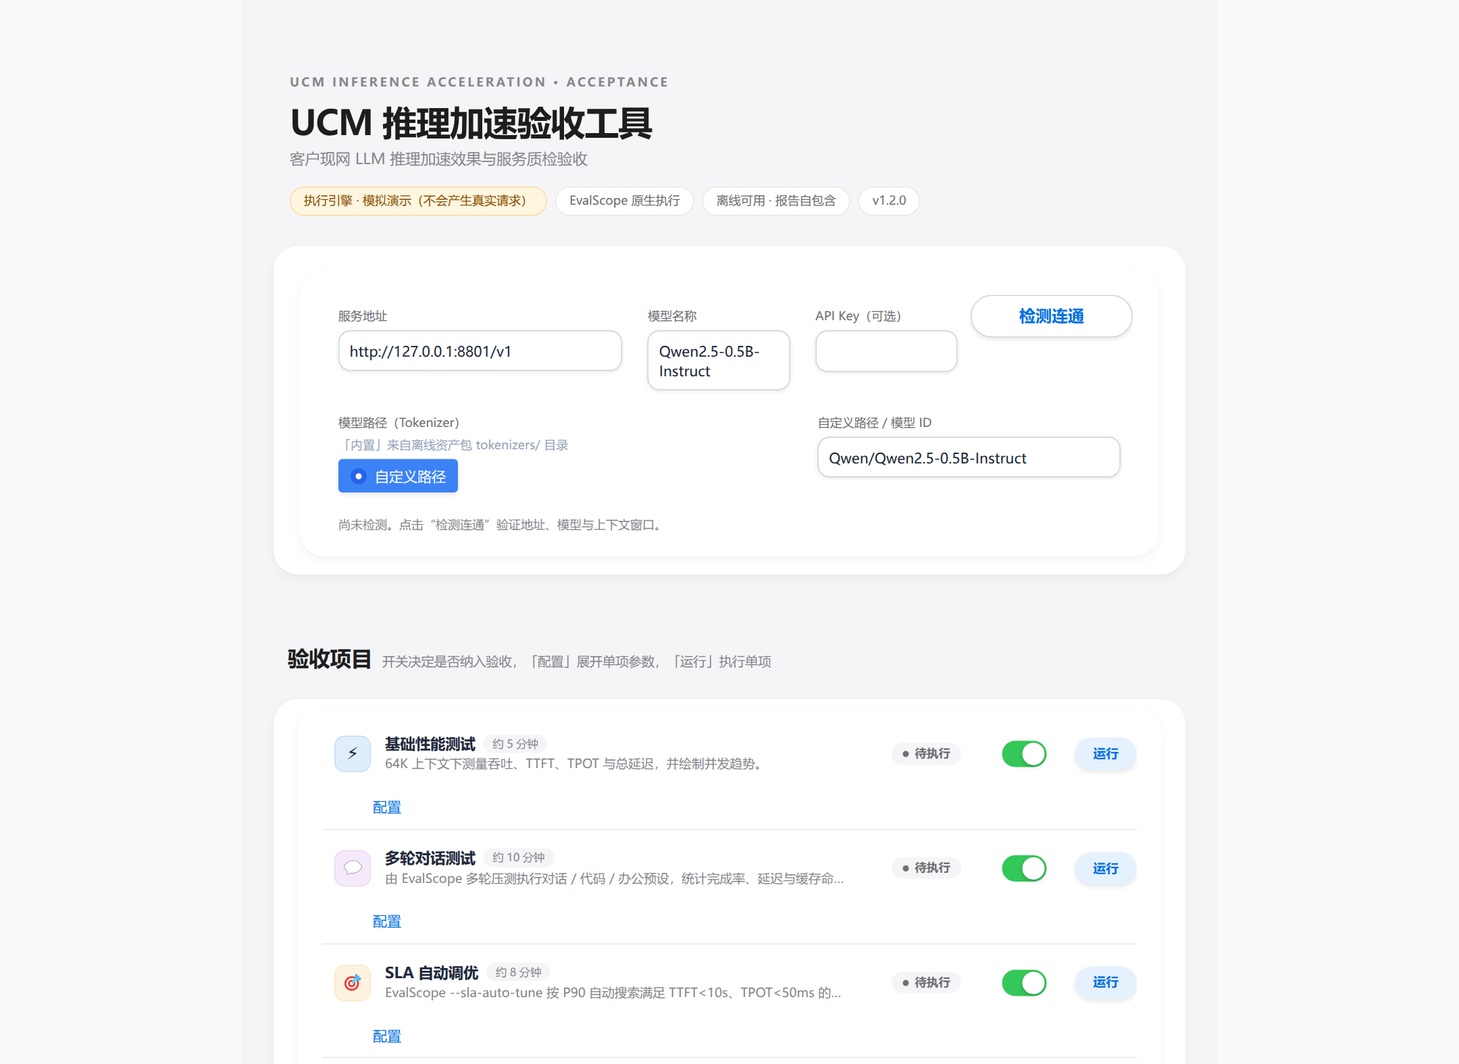
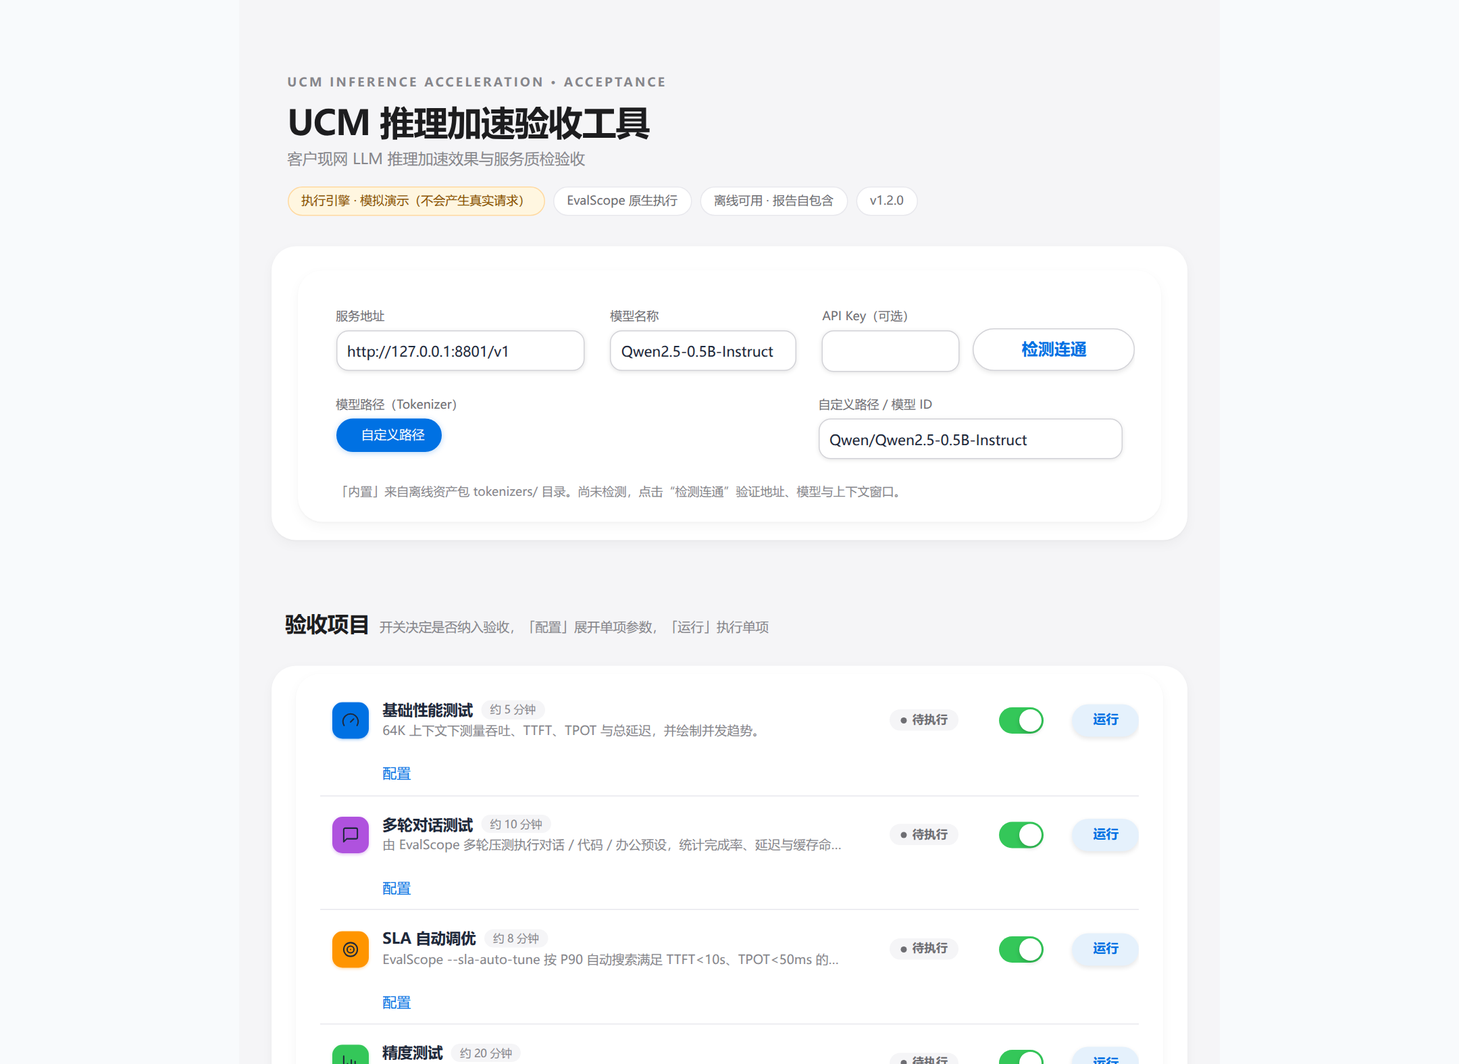
style(gui/report): 对齐修正 + SVG 图标替换 emoji + 组件风格统一
- 测试项图标与高级配置标题的 emoji 全部替换为 SF Symbols 风格内联 SVG
- 对齐修正（JS 量化）：项内「配置」与标题文字精确对齐（62/62/62），
  检测连通按钮与输入框底边对齐，模型名称列加宽避免 textarea 换行撑高
- 选项组件统一芯片化：radio / checkbox-group 统一胶囊（选中=蓝底白字），
  导入配置上传框压缩为 44px 单行，tabs 改为分段控件（Gradio 6 .tab-container）
- 隐藏 Gradio 页脚；文件框改白底细边
- report.py 调色板统一到 Apple 令牌：白 hero、蓝强调、24px 圆角白卡，
  图表色替换为系统蓝/橙

diff --git a/ucm_accept/gui.py b/ucm_accept/gui.py
@@ -53,9 +53,16 @@ body,.gradio-container{background:var(--bg)!important}
 .ucm-import > div,.ucm-import button,.ucm-import .empty,.ucm-import .wrap,.ucm-import .upload-container,
 .ucm-import .file-preview,.ucm-import [data-testid="file"],.ucm-import .prose{
   min-height:0!important;height:auto!important;color:var(--muted)!important;font-size:12px!important}
-.ucm-import button,.ucm-import .upload-container{background:var(--bg)!important;
-  border:1.5px dashed var(--line-2)!important;border-radius:12px!important;padding:10px 14px!important;
-  box-shadow:none!important;color:var(--muted-2)!important}
+.ucm-import button,.ucm-import .upload-container{background:var(--card)!important;
+  border:1.5px dashed var(--line-2)!important;border-radius:12px!important;padding:0 16px!important;
+  box-shadow:none!important;color:var(--muted-2)!important;min-height:0!important;height:44px!important}
+.ucm-import .upload-container .wrap{flex-direction:row!important;gap:8px!important;align-items:center!important;
+  min-height:0!important;height:42px!important}
+.ucm-import .upload-container .icon-wrap svg{width:16px;height:16px}
+.ucm-import .upload-container .or{display:none!important}
+.ucm-import .upload-container .wrap{font-size:0!important}
+.ucm-import .upload-container .wrap::after{content:"选择 YAML 文件";font-size:12.5px!important;
+  color:var(--muted-2)!important;white-space:nowrap}
 .gradio-container .container.show_textbox_border,.gradio-container .input-container{background:transparent!important}
 
 /* ===================== 输入框 ===================== */
@@ -105,13 +112,13 @@ body,.gradio-container{background:var(--bg)!important}
 .ucm-item-row > .ucm-item-head-wrap{flex:1 1 auto!important;width:auto!important}
 .ucm-item-row > .ucm-item-status{flex:0 0 auto!important;width:auto!important}
 .ucm-item-row > .card-enable{flex:0 0 auto!important;width:auto!important}
-.ucm-item-row > button.ucm-run-one{flex:0 0 auto!important;width:auto!important}
+.ucm-item-row > button.ucm-run-one{flex:0 0 auto!important;width:auto!important;min-width:66px!important}
 .ucm-item-head-wrap{flex:1 1 auto!important;min-width:0;display:flex!important;align-items:center!important}
 .ucm-item-head{display:flex;align-items:center;gap:14px;min-width:0}
 .ucm-item-icon{width:36px;height:36px;flex:none;border-radius:10px;display:flex;align-items:center;
-  justify-content:center;font-size:17px;
-  background:color-mix(in srgb,var(--accent,#0071e3) 12%,#fff);
-  border:1px solid color-mix(in srgb,var(--accent,#0071e3) 24%,#fff)}
+  justify-content:center;background:var(--accent,#0071e3);color:#fff;
+  box-shadow:0 1px 3px color-mix(in srgb,var(--accent,#0071e3) 35%,transparent)}
+.ucm-item-icon svg{display:block}
 .ucm-item-name{min-width:0}
 .ucm-item-title{font-size:15px;font-weight:600;letter-spacing:-.01em;line-height:1.3;
   display:flex;align-items:center;gap:8px;white-space:nowrap}
@@ -167,26 +174,51 @@ body,.gradio-container{background:var(--bg)!important}
 .ucm-run-one{min-height:32px!important;font-size:12.5px!important;padding:0 18px!important;
   background:var(--blue-soft)!important;border:none!important;color:var(--blue)!important}
 .ucm-run-one:hover{background:rgba(0,113,227,.16)!important;transform:none}
-.probe-btn{min-height:40px!important}
+.probe-btn{min-height:40px!important;align-self:flex-end!important;margin-bottom:11px!important}
 
-/* ===================== 选项卡（分段控件） ===================== */
-.ucm-config .tab-nav,.gradio-container .tab-nav{background:#ececee!important;border-bottom:none!important;
+/* ===================== 选项芯片（radio / checkbox-group 统一胶囊） ===================== */
+.ucm-choice .wrap{gap:8px!important}
+.ucm-choice label{position:relative;border:1px solid var(--line-2)!important;border-radius:999px!important;
+  background:var(--card)!important;padding:6px 16px!important;margin:0!important;
+  font-size:12.5px!important;font-weight:500!important;color:var(--ink)!important;
+  box-shadow:none!important;cursor:pointer;transition:all .5s var(--ease)}
+.ucm-choice label:hover{border-color:var(--blue)!important}
+.ucm-choice label input{position:absolute;opacity:0;pointer-events:none;width:0;height:0;margin:0}
+.ucm-choice label.selected,.ucm-choice label:has(input:checked){
+  background:var(--blue)!important;border-color:var(--blue)!important;color:#fff!important;
+  box-shadow:0 1px 6px rgba(0,113,227,.28)!important}
+.ucm-choice label:focus-within{box-shadow:0 0 0 3px rgba(0,113,227,.22)!important}
+
+/* ===================== 文件框 / 页脚 / 日志容器 ===================== */
+.ucm-filebox{border:1px solid var(--line)!important;border-style:solid!important;border-radius:12px!important;
+  background:var(--card)!important;box-shadow:none!important}
+.ucm-filebox button{border-style:solid!important;background:var(--card)!important;color:var(--blue)!important;
+  font-size:12.5px!important}
+.gradio-container footer{display:none!important}
+.ucm-log > div,.ucm-log .wrap{background:transparent!important;border:none!important;box-shadow:none!important}
+
+/* ===================== 选项卡（分段控件，Gradio 6：.tab-container） ===================== */
+.ucm-config .tab-container:not(.visually-hidden),.gradio-container .tab-container:not(.visually-hidden){
+  background:#ececee!important;border-bottom:none!important;
   border-radius:12px!important;padding:3px!important;gap:2px;width:fit-content}
-.ucm-config .tab-nav button,.gradio-container .tab-nav button{border-radius:9px!important;background:transparent!important;
-  font-weight:500!important;font-size:13px!important;color:var(--muted-2)!important;
-  transition:all .5s var(--ease)}
-.ucm-config .tab-nav button.selected,.gradio-container .tab-nav button.selected,
-.ucm-config .tab-nav button[aria-selected="true"]{background:#fff!important;color:var(--ink)!important;
-  box-shadow:0 1px 4px rgba(0,0,0,.10)!important}
+.ucm-config .tab-container:not(.visually-hidden) button,.gradio-container .tab-container:not(.visually-hidden) button{
+  border-radius:9px!important;background:transparent!important;font-weight:500!important;
+  font-size:13px!important;color:var(--muted-2)!important;transition:all .5s var(--ease)}
+.ucm-config .tab-container:not(.visually-hidden) button.selected,
+.gradio-container .tab-container:not(.visually-hidden) button.selected,
+.ucm-config .tab-container:not(.visually-hidden) button[aria-selected="true"]{
+  background:#fff!important;color:var(--ink)!important;box-shadow:0 1px 4px rgba(0,0,0,.10)!important}
 
 /* ===================== 项内配置折叠区 ===================== */
 .ucm-item-config{border:none!important;background:transparent!important;box-shadow:none!important;
-  padding:0!important;margin:0 0 8px 50px!important}
+  padding:0!important;margin:0 0 8px 62px!important}
 .ucm-item-config .label-wrap,.ucm-item-config button,.ucm-item-config [role="button"]{
   width:100%;justify-content:flex-start!important;text-align:left;padding:3px 0!important;
   font-weight:500!important;font-size:12.5px!important;color:var(--blue)!important}
 .ucm-item-config .label-wrap .icon,.ucm-item-config button .icon{display:none!important}
 .ucm-item-config .wrap{background:transparent!important;border:none!important}
+.ucm-item-config .form{max-width:560px}
+.ucm-endpoint textarea{white-space:pre;overflow-x:auto}
 .ucm-config label span{font-weight:500!important;font-size:12px!important;color:var(--muted-2)!important}
 .ucm-config input,.ucm-config input[type="number"],.ucm-config textarea{border-radius:var(--radius-input)!important}
 
@@ -427,7 +459,22 @@ def _parse_scenario(value: str) -> str:
     return {"对话": "dialogue", "代码": "code", "办公": "office"}.get(value, value or "dialogue")
 
 
-# 每个测试项的图标色（iOS 设置风格：彩色小方块图标，页面其余部分保持单色系）
+# 每个测试项的图标（SF Symbols 风格线性 SVG）与 iOS 设置风格彩色小方块
+_SVG_WRAP = ('<svg viewBox="0 0 24 24" width="18" height="18" fill="none" stroke="currentColor" '
+             'stroke-width="1.8" stroke-linecap="round" stroke-linejoin="round" aria-hidden="true">{}</svg>')
+ITEM_ICONS: dict[str, str] = {
+    "perf": _SVG_WRAP.format('<path d="M12 14l4-4"/><path d="M3.4 18.5a10 10 0 1 1 17.2 0"/>'),
+    "multiturn": _SVG_WRAP.format('<path d="M21 15a2 2 0 0 1-2 2H7l-4 4V5a2 2 0 0 1 2-2h14a2 2 0 0 1 2 2z"/>'),
+    "sla": _SVG_WRAP.format('<circle cx="12" cy="12" r="9"/><circle cx="12" cy="12" r="4.5"/>'
+                            '<circle cx="12" cy="12" r="0.8" fill="currentColor" stroke="none"/>'),
+    "accuracy": _SVG_WRAP.format('<path d="M3 3v18h18"/><path d="M8 17v-4"/><path d="M13 17V8"/>'
+                                 '<path d="M18 17v-7"/>'),
+    "agent": _SVG_WRAP.format('<rect x="5" y="5" width="14" height="14" rx="2.5"/>'
+                              '<rect x="10" y="10" width="4" height="4" rx="0.8"/>'
+                              '<path d="M9 2.5V5M15 2.5V5M9 19v2.5M15 19v2.5M2.5 9H5M2.5 15H5'
+                              'M19 9h2.5M19 15h2.5"/>'),
+}
+# 图标底色（iOS 设置风格：彩色小方块图标，页面其余部分保持单色系）
 ITEM_ACCENTS: dict[str, str] = {
     "perf": "#0071e3",
     "multiturn": "#af52de",
@@ -610,7 +657,7 @@ def build_demo(service: AcceptanceService):
                     label="模型名称",
                     value=str(config.get("endpoint.model")),
                     placeholder="Qwen2.5-0.5B-Instruct",
-                    scale=2,
+                    scale=3,
                 )
                 api_key = gr.Textbox(
                     label="API Key（可选）",
@@ -624,7 +671,7 @@ def build_demo(service: AcceptanceService):
                     choices=tok_builtin_choices,
                     value=tok_builtin_choices[tok_default_index],
                     label="模型路径（Tokenizer）",
-                    info="「内置」来自离线资产包 tokenizers/ 目录",
+                    elem_classes="ucm-choice",
                     scale=3,
                 )
                 tokenizer_custom = gr.Textbox(
@@ -635,7 +682,8 @@ def build_demo(service: AcceptanceService):
                     scale=2,
                 )
             probe_status = gr.HTML(
-                '<div class="ucm-hint">尚未检测。点击“检测连通”验证地址、模型与上下文窗口。</div>',
+                '<div class="ucm-hint">「内置」来自离线资产包 tokenizers/ 目录。尚未检测，'
+                '点击“检测连通”验证地址、模型与上下文窗口。</div>',
                 elem_classes="ucm-probe-status",
             )
 
@@ -661,7 +709,7 @@ def build_demo(service: AcceptanceService):
             accent = ITEM_ACCENTS[key]
             return (
                 f'<div class="ucm-item-head">'
-                f'<div class="ucm-item-icon" style="--accent:{accent}">{meta.icon}</div>'
+                f'<div class="ucm-item-icon" style="--accent:{accent}">{ITEM_ICONS[key]}</div>'
                 f'<div class="ucm-item-name">'
                 f'<div class="ucm-item-title">{_esc(meta.name)}<span class="ucm-item-eta">{_esc(meta.eta)}</span></div>'
                 f'<div class="ucm-item-desc">{_esc(meta.description)}</div>'
@@ -712,6 +760,7 @@ def build_demo(service: AcceptanceService):
                         choices=mt_labels,
                         value=[str(presets[k].get("label", k)) for k in presets if k in mt_selected],
                         label="数据集（多选，按顺序执行）",
+                        elem_classes="ucm-choice",
                     )
                     mt_parallel_card = gr.Number(
                         label="并发", value=int(config.get("multiturn.parallel", 4)), precision=0
@@ -735,6 +784,7 @@ def build_demo(service: AcceptanceService):
                         ],
                         value=str(config.get("sla.mode", "auto_tune")),
                         label="模式",
+                        elem_classes="ucm-choice",
                     )
                     sla_ttft_card = gr.Number(
                         label="TTFT.P90 阈值（秒）",
@@ -760,6 +810,7 @@ def build_demo(service: AcceptanceService):
                         choices=acc_labels_all,
                         value=acc_labels_enabled,
                         label="数据集（多选）",
+                        elem_classes="ucm-choice",
                     )
                     acc_runs_card = gr.Number(
                         label="每项遍数", value=int(config.get("accuracy.runs", 2)), precision=0,
@@ -817,7 +868,7 @@ def build_demo(service: AcceptanceService):
         report_html = gr.HTML(_report_frame(service))
 
         # ============== 高级配置（低频项） ==============
-        with gr.Accordion("⚙ 高级配置（低频项）", open=False, elem_classes="ucm-config"):
+        with gr.Accordion("高级配置（低频项）", open=False, elem_classes="ucm-config"):
             gr.HTML(
                 '<div class="ucm-hint">各测试项的主要参数已在上方对应测试项的「配置」内。此处为低频高级参数，'
                 "修改仅对本次会话生效，点击「保存到配置文件」后持久化。API Key 不落盘。</div>"

diff --git a/ucm_accept/report.py b/ucm_accept/report.py
@@ -23,65 +23,64 @@ from .models import (
 
 CSS = r"""
 :root{
-  --ink:#0f172a; --muted:#5b6779; --line:#dde3ec; --bg:#eef2f7; --card:#ffffff;
-  --brand:#0b2a4a; --brand2:#124f7a; --accent:#0f9d8a; --accent-soft:#e6f7f4;
-  --amber:#b45309; --amber-soft:#fff7e6; --red:#b91c1c; --red-soft:#fef2f2;
-  --green:#15803d; --green-soft:#eaf7ee;
+  --ink:#1d1d1f; --muted:#86868b; --line:#e8e8ed; --bg:#f5f5f7; --card:#ffffff;
+  --brand:#1d1d1f; --brand2:#0071e3; --accent:#0071e3; --accent-soft:#e5f0ff;
+  --amber:#9a6a00; --amber-soft:#fff6e0; --red:#c21b17; --red-soft:#ffecec;
+  --green:#1d7a3d; --green-soft:#e8f9ee;
 }
 *{box-sizing:border-box}
 html{scroll-behavior:smooth}
 body{margin:0;background:var(--bg);color:var(--ink);
-  font-family:-apple-system,BlinkMacSystemFont,"Segoe UI","Microsoft YaHei","Noto Sans CJK SC",
-  "PingFang SC","Hiragino Sans GB",sans-serif;font-size:14px;line-height:1.65}
+  font-family:-apple-system,BlinkMacSystemFont,"SF Pro Display","SF Pro Text","Segoe UI","Microsoft YaHei",
+  "Noto Sans CJK SC","PingFang SC","Hiragino Sans GB",sans-serif;font-size:14px;line-height:1.65;
+  -webkit-font-smoothing:antialiased}
 a{color:var(--brand2)}
 code,pre{font-family:"SFMono-Regular",Consolas,"Liberation Mono",Menlo,monospace}
-.hero{background:linear-gradient(125deg,#081a30 0%,#0d3255 55%,#0f5a68 100%);color:#fff;
-  padding:34px 40px 30px;position:relative;overflow:hidden}
-.hero:after{content:"";position:absolute;right:-120px;top:-120px;width:380px;height:380px;
-  border-radius:50%;background:radial-gradient(circle,rgba(45,212,191,.28),transparent 68%)}
+.hero{background:var(--card);color:var(--ink);
+  padding:36px 40px 32px;position:relative;overflow:hidden;border-bottom:1px solid var(--line)}
 .hero .wrap{max-width:1180px;margin:0 auto;position:relative;z-index:1}
-.eyebrow{font-size:12px;letter-spacing:.18em;text-transform:uppercase;color:#8fd8cf;font-weight:700}
-.hero h1{margin:8px 0 10px;font-size:30px;line-height:1.25;font-weight:750;letter-spacing:.01em}
-.hero .sub{color:#cfe1f2;max-width:820px;margin:0;font-size:14px}
-.hero-meta{display:flex;flex-wrap:wrap;gap:8px 22px;margin-top:18px;color:#b9cee2;font-size:12.5px}
-.hero-meta b{color:#fff;font-weight:600}
-.mode-pill{display:inline-flex;align-items:center;gap:6px;border:1px solid rgba(255,255,255,.25);
-  background:rgba(255,255,255,.1);border-radius:999px;padding:3px 11px;font-size:12px;color:#e6f6f3}
+.eyebrow{font-size:12px;letter-spacing:.18em;text-transform:uppercase;color:var(--muted);font-weight:600}
+.hero h1{margin:10px 0 10px;font-size:32px;line-height:1.15;font-weight:700;letter-spacing:-.02em}
+.hero .sub{color:var(--muted);max-width:820px;margin:0;font-size:14px}
+.hero-meta{display:flex;flex-wrap:wrap;gap:8px 22px;margin-top:18px;color:var(--muted);font-size:12.5px}
+.hero-meta b{color:var(--ink);font-weight:600}
+.mode-pill{display:inline-flex;align-items:center;gap:6px;border:1px solid var(--line);
+  background:var(--accent-soft);border-radius:999px;padding:3px 11px;font-size:12px;color:#0062c4}
 main{max-width:1180px;margin:0 auto;padding:24px 28px 56px}
 .banner{border-radius:12px;padding:14px 18px;margin:18px 0;border:1px solid;font-size:13.5px}
 .banner.warn{background:var(--amber-soft);border-color:#f3d19b;color:#7c4a03}
 .banner.info{background:#eff6ff;border-color:#bfdbfe;color:#1e3a8a}
 .banner strong{font-weight:700}
 .verdict{display:grid;grid-template-columns:176px 1fr;gap:24px;align-items:center;
-  background:var(--card);border:1px solid var(--line);border-radius:16px;padding:24px 28px;
-  margin-top:0;position:relative;box-shadow:0 12px 32px rgba(15,23,42,.08)}
-.verdict-badge{border-radius:12px;padding:18px 12px;text-align:center;color:#fff;
-  background:var(--accent);box-shadow:inset 0 0 0 1px rgba(255,255,255,.18)}
+  background:var(--card);border:none;border-radius:24px;padding:24px 28px;
+  margin-top:0;position:relative;box-shadow:0 4px 12px rgba(0,0,0,.04)}
+.verdict-badge{border-radius:16px;padding:18px 12px;text-align:center;color:#fff;
+  background:var(--accent);box-shadow:0 4px 14px rgba(0,113,227,.30)}
 .verdict-badge .label{font-size:11px;letter-spacing:.16em;opacity:.85}
 .verdict-badge .value{font-size:27px;font-weight:800;line-height:1.25;margin-top:3px}
 .verdict h2{font-size:17px;margin:0 0 6px}
 .verdict ul{margin:4px 0 0;padding-left:20px;color:var(--muted)}
 .verdict li{margin:2px 0}
-.section{background:var(--card);border:1px solid var(--line);border-radius:16px;padding:22px 24px;
-  margin-top:20px;box-shadow:0 2px 8px rgba(15,23,42,.03);page-break-inside:avoid}
+.section{background:var(--card);border:none;border-radius:24px;padding:24px 28px;
+  margin-top:20px;box-shadow:0 4px 12px rgba(0,0,0,.04);page-break-inside:avoid}
 .section>h2{font-size:19px;margin:0 0 4px;display:flex;align-items:center;gap:9px}
-.section>h2 .num{font-size:12px;color:#fff;background:var(--brand2);border-radius:6px;
+.section>h2 .num{font-size:12px;color:#fff;background:var(--blue,#0071e3);border-radius:999px;
   min-width:24px;height:24px;display:inline-flex;align-items:center;justify-content:center;font-weight:700}
 .section .lead{color:var(--muted);margin:0 0 16px;font-size:13px}
 .grid{display:grid;grid-template-columns:repeat(auto-fit,minmax(190px,1fr));gap:12px}
-.kv{border:1px solid var(--line);border-radius:11px;padding:12px 14px;background:#fbfcfe}
+.kv{border:1px solid var(--line);border-radius:12px;padding:12px 14px;background:var(--bg)}
 .kv .k{color:var(--muted);font-size:11.5px;letter-spacing:.03em}
 .kv .v{font-weight:650;font-size:15px;margin-top:2px;overflow-wrap:anywhere}
 .kv.endpoint{grid-column:span 2}
 .kv.endpoint .v{font-size:13px}
-.metric{background:linear-gradient(180deg,#fbfdff,#f5f9ff);border:1px solid #dbe7f7;
+.metric{background:var(--bg);border:1px solid var(--line);
   border-radius:12px;padding:14px 16px}
 .metric .k{font-size:12px;color:var(--muted)}
 .metric .v{font-size:24px;font-weight:750;color:var(--brand2);margin-top:2px;line-height:1.2}
 .metric .s{font-size:11.5px;color:var(--muted);margin-top:3px}
 table{width:100%;border-collapse:collapse;margin:10px 0 2px;font-size:12.8px}
 th,td{border-bottom:1px solid var(--line);padding:8px 9px;text-align:left;vertical-align:top}
-th{background:#f6f8fc;color:#3b4b61;font-weight:650;white-space:nowrap}
+th{background:var(--bg);color:#6e6e73;font-weight:600;white-space:nowrap}
 tbody tr:last-child td{border-bottom:none}
 td.num,th.num{text-align:right;font-variant-numeric:tabular-nums;white-space:nowrap}
 .table-wrap{overflow-x:auto}
@@ -101,7 +100,7 @@ td.num,th.num{text-align:right;font-variant-numeric:tabular-nums;white-space:now
   border-radius:0 9px 9px 0;margin:12px 0;color:#6b4103;font-size:13px}
 .callout.bad{border-color:var(--red);background:var(--red-soft);color:#7f1d1d}
 .callout.good{border-color:var(--green);background:var(--green-soft);color:#14532d}
-.callout.info{border-color:#2563eb;background:#eff6ff;color:#1e3a8a}
+.callout.info{border-color:#0071e3;background:#e5f0ff;color:#0062c4}
 .details{border:1px solid var(--line);border-radius:10px;margin:10px 0;background:#fcfdff}
 .details summary{cursor:pointer;padding:10px 14px;font-weight:600;color:#334155}
 .details .body{padding:2px 14px 14px;border-top:1px solid var(--line)}
@@ -298,7 +297,7 @@ def svg_accuracy_bars(
         return '<div class="empty">暂无精度数据</div>'
     left, right, top, bottom = 58, 22, 18, 46
     plot_w, plot_h = width - left - right, height - top - bottom
-    colors = ["#2563eb", "#0f9d8a"]
+    colors = ["#0071e3", "#ff9500"]
     groups = len(labels)
     group_w = plot_w / max(1, groups)
     bar_w = min(30, group_w * 0.26)
@@ -472,9 +471,9 @@ def _perf_section(report: AcceptanceReport, item: ItemResult | None) -> str:
         charts = (
             '<div class="charts-2">'
             f'<div class="chart"><h3>TTFT.P90（秒）</h3><p>首字延迟随并发变化，虚线为 SLA 目标</p>'
-            f'{svg_line_chart(points, lambda p: (p.get("ttft_p90_ms") or 0) / 1000, title="TTFT.P90", unit="秒", threshold=(ttft_target / 1000 if ttft_target else None), threshold_label=f"目标 {ttft_target/1000:.1f}s" if ttft_target else "", color="#2563eb")}</div>'
+            f'{svg_line_chart(points, lambda p: (p.get("ttft_p90_ms") or 0) / 1000, title="TTFT.P90", unit="秒", threshold=(ttft_target / 1000 if ttft_target else None), threshold_label=f"目标 {ttft_target/1000:.1f}s" if ttft_target else "", color="#0071e3")}</div>'
             f'<div class="chart"><h3>TPOT.P90（毫秒）</h3><p>逐字延迟随并发变化，虚线为 SLA 目标</p>'
-            f'{svg_line_chart(points, lambda p: p.get("tpot_p90_ms"), title="TPOT.P90", unit="毫秒", threshold=tpot_target, threshold_label=f"目标 {tpot_target:.0f}ms" if tpot_target else "", color="#0f9d8a")}</div>'
+            f'{svg_line_chart(points, lambda p: p.get("tpot_p90_ms"), title="TPOT.P90", unit="毫秒", threshold=tpot_target, threshold_label=f"目标 {tpot_target:.0f}ms" if tpot_target else "", color="#ff9500")}</div>'
             "</div>"
             f'<div class="chart"><h3>输出吞吐（tok/s）</h3><p>不同并发下的稳态输出吞吐</p>'
             f'{svg_line_chart(points, lambda p: p.get("throughput_tok_s"), title="输出吞吐", unit="tok/s", color="#7c3aed")}</div>'
@@ -602,9 +601,9 @@ def _sla_section(report: AcceptanceReport, item: ItemResult | None) -> str:
             charts = (
                 '<div class="charts-2">'
                 f'<div class="chart"><h3>TTFT.P90（秒）</h3>'
-                f'{svg_line_chart(probes, lambda p: (p.get("ttft_p90_ms") or 0)/1000, title="SLA TTFT.P90", unit="秒", threshold=(target.get("ttft_p90_ms") or 0)/1000, threshold_label="目标", color="#2563eb")}</div>'
+                f'{svg_line_chart(probes, lambda p: (p.get("ttft_p90_ms") or 0)/1000, title="SLA TTFT.P90", unit="秒", threshold=(target.get("ttft_p90_ms") or 0)/1000, threshold_label="目标", color="#0071e3")}</div>'
                 f'<div class="chart"><h3>TPOT.P90（毫秒）</h3>'
-                f'{svg_line_chart(probes, lambda p: p.get("tpot_p90_ms"), title="SLA TPOT.P90", unit="毫秒", threshold=target.get("tpot_p90_ms"), threshold_label="目标", color="#0f9d8a")}</div>'
+                f'{svg_line_chart(probes, lambda p: p.get("tpot_p90_ms"), title="SLA TPOT.P90", unit="毫秒", threshold=target.get("tpot_p90_ms"), threshold_label="目标", color="#ff9500")}</div>'
                 "</div>"
             )
         recommended = detail.get("recommended_concurrency")
